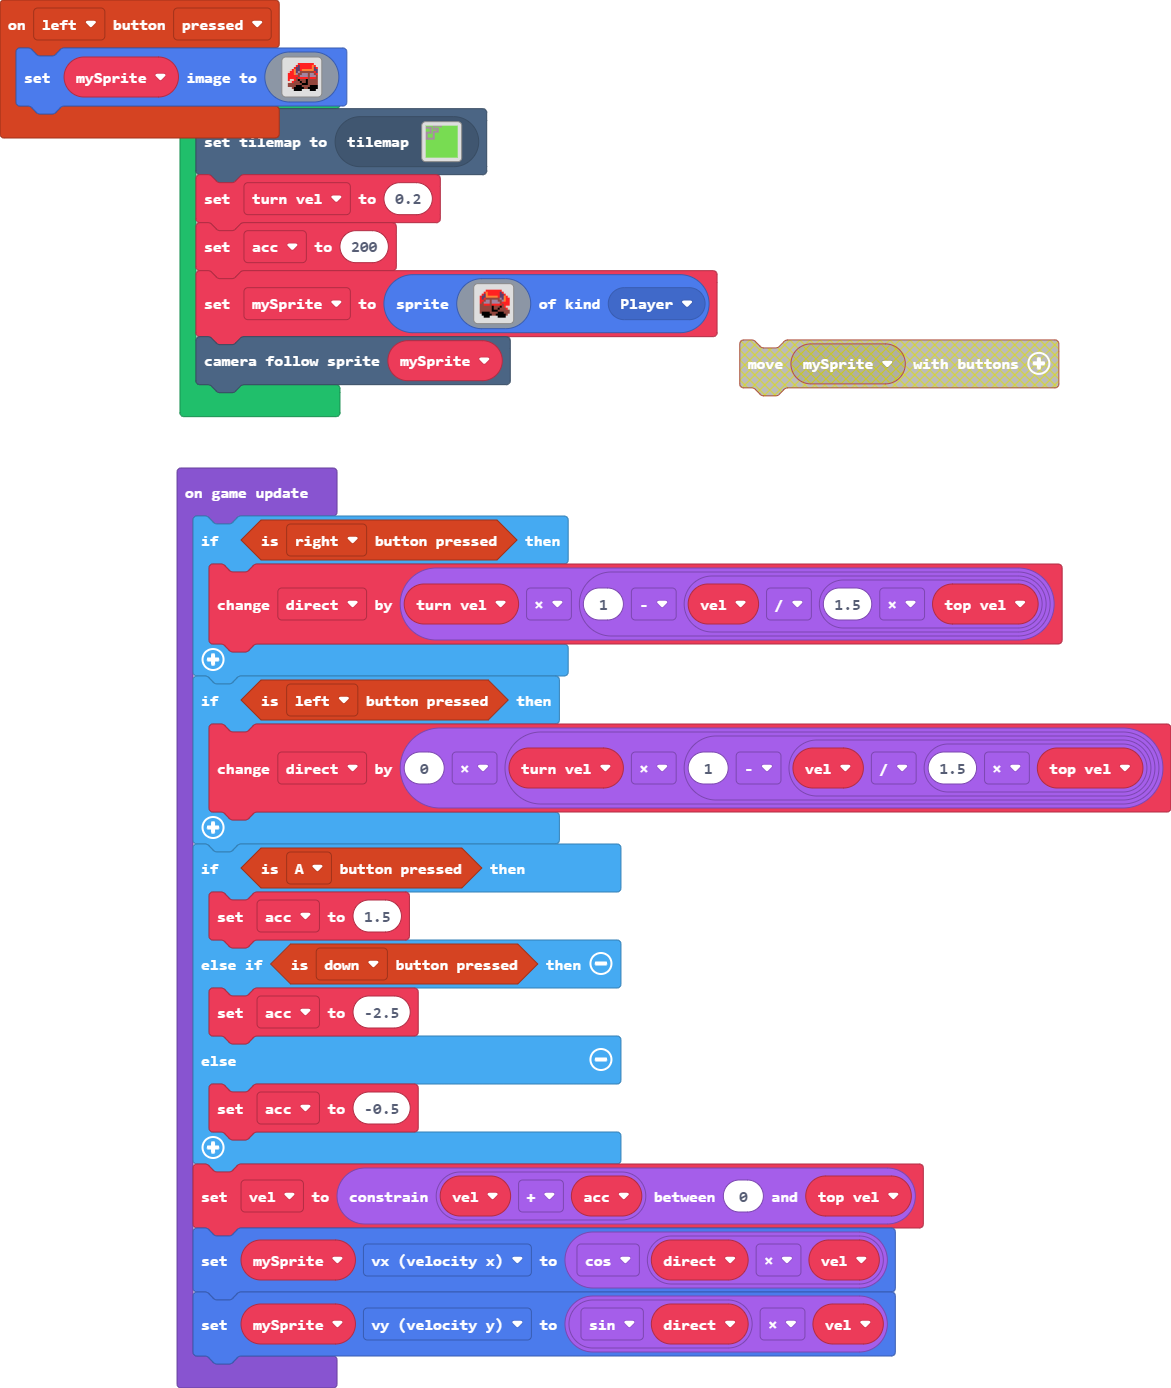
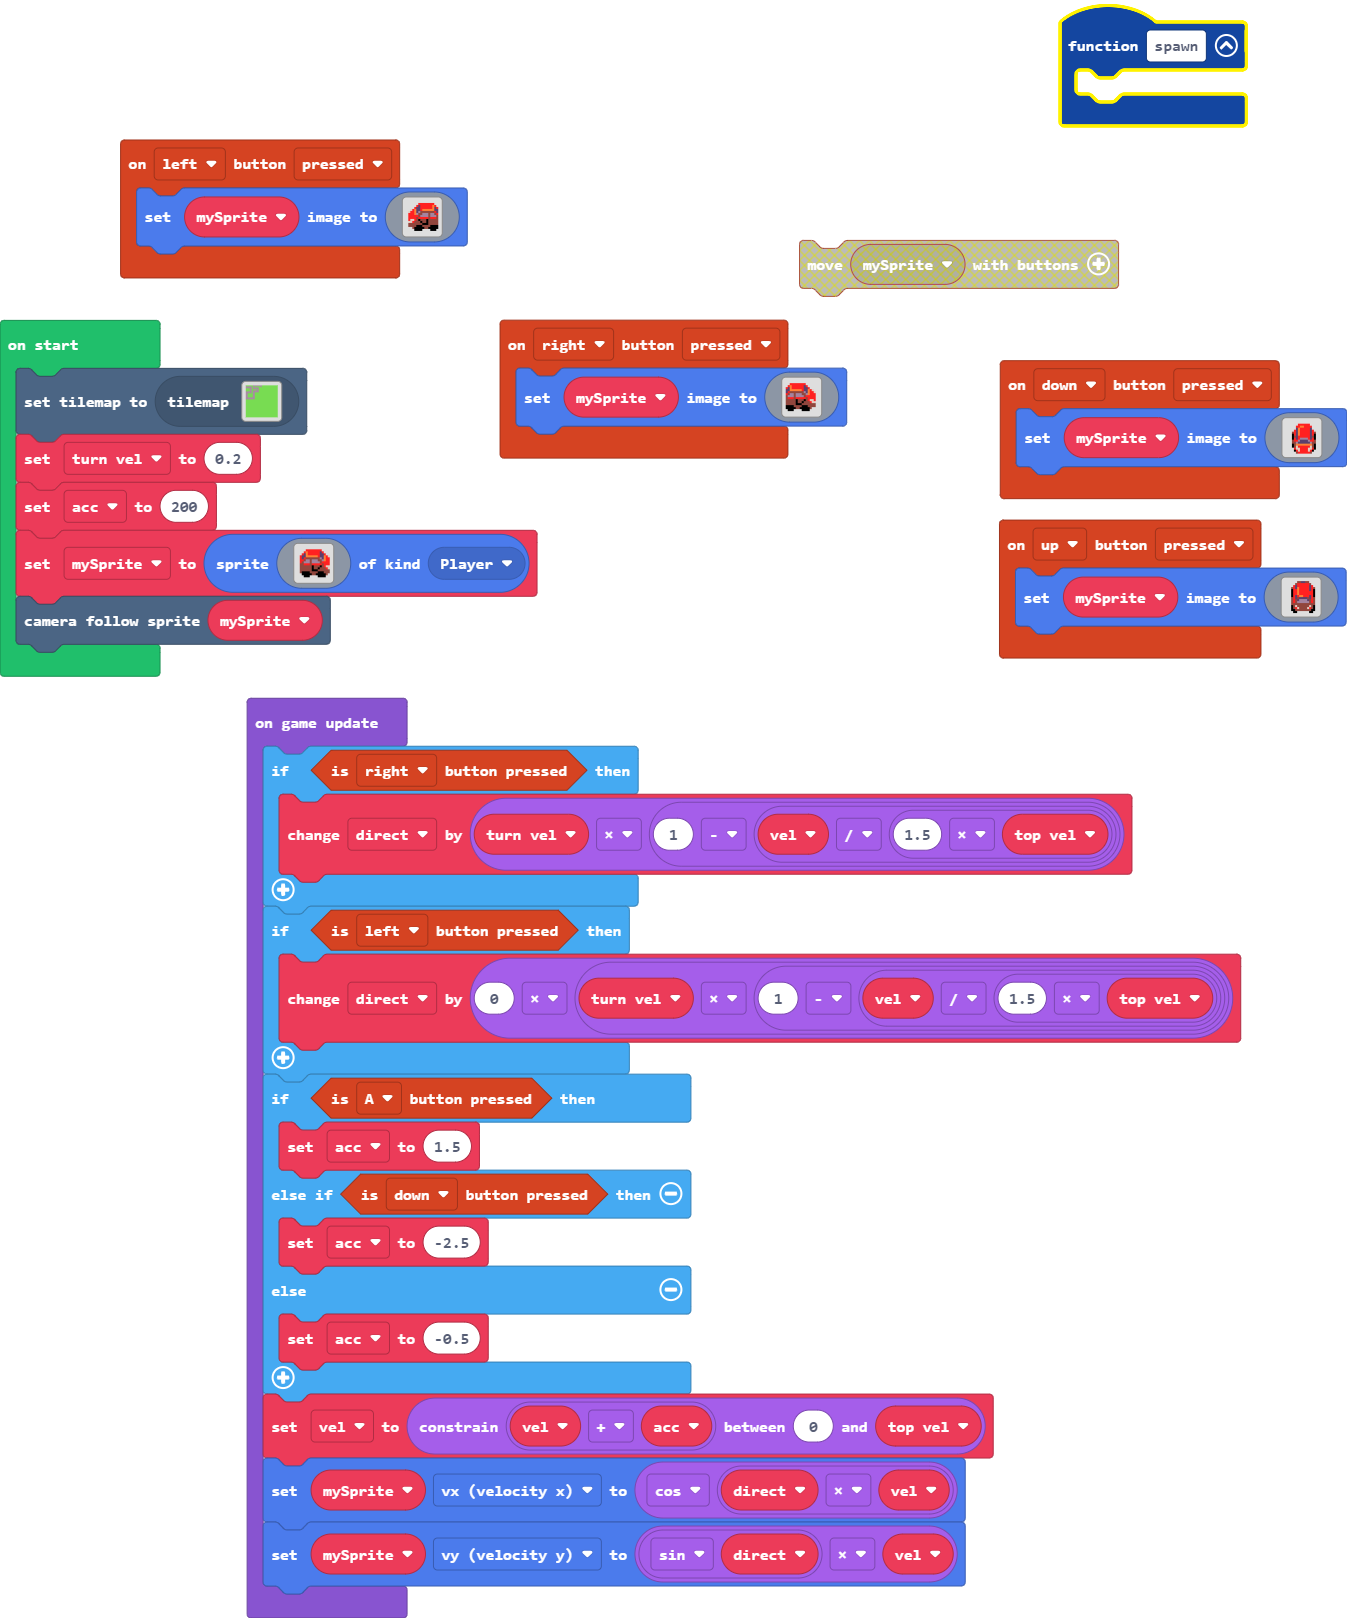
Update main.blocks, main.ts

diff --git a/main.ts b/main.ts
@@ -1,3 +1,23 @@
+controller.up.onEvent(ControllerButtonEvent.Pressed, function () {
+    mySprite.setImage(img`
+        . . . . . . e e c c e e . . . . 
+        . . . . . e 2 2 2 2 2 2 e . . . 
+        . . . . 2 c 2 2 2 2 2 2 c 2 . . 
+        . . . e 2 c 4 2 2 2 2 2 c 2 e . 
+        . . . f 2 2 4 2 2 2 2 2 c 2 f . 
+        . . . f 2 2 4 2 2 2 2 2 2 2 f . 
+        . . . f 2 2 4 2 2 2 2 2 2 2 f . 
+        . . . f 2 c 2 4 4 2 2 2 c 2 f . 
+        . . . e 2 c e c c c c e c 2 e . 
+        . . . e 2 e c b b b b c e 2 e . 
+        . . . e 2 e b b b b b b e 2 e . 
+        . . . e e e e e e e e e e e e . 
+        . . . f e d e e e e e e d e f . 
+        . . . f e 2 d e e e e d 2 e f . 
+        . . . f f e e e e e e e e f f . 
+        . . . . f f . . . . . . f f . . 
+        `)
+})
 controller.left.onEvent(ControllerButtonEvent.Pressed, function () {
     mySprite.setImage(img`
         . . . . . . . . . . . . . . . . 
@@ -18,6 +38,49 @@ controller.left.onEvent(ControllerButtonEvent.Pressed, function () {
         . . . . . . . . . . . . . . . . 
         `)
 })
+controller.right.onEvent(ControllerButtonEvent.Pressed, function () {
+    mySprite.setImage(img`
+        . . . . . . . . . . . . . . . . 
+        . . 2 2 2 2 2 2 2 2 . . . . . . 
+        . 2 4 2 2 2 2 2 2 c 2 . . . . . 
+        2 c 4 2 2 2 2 2 2 c c 2 . . . . 
+        c c 4 4 4 4 4 4 2 c c 4 2 d . . 
+        c 2 e e e e e e e b c 4 2 2 d . 
+        2 e b b e b b b e e b 4 2 2 2 . 
+        e b b b e b b b b e 2 2 2 2 2 . 
+        e 2 2 2 e 2 2 2 2 2 e 2 2 2 2 . 
+        e e e e e f e e e f e 2 d d 2 . 
+        e e e e e f e e f e e e 2 d d . 
+        e e e e e f f f e e e e e e e . 
+        f f f f e e e e f f f e e e e . 
+        f f f f f e e f f f f f e . . . 
+        . f f f . . . . f f f f . . . . 
+        . . . . . . . . . . . . . . . . 
+        `)
+})
+controller.down.onEvent(ControllerButtonEvent.Pressed, function () {
+    mySprite.setImage(img`
+        . . . . . . . . . . . . . . . . 
+        . . . . . . 2 2 2 2 2 2 . . . . 
+        . . . . . 2 2 4 4 2 2 2 2 . . . 
+        . . . . . c 4 2 2 2 2 2 c . . . 
+        . . . . 2 c 4 2 2 2 2 2 c 2 . . 
+        . . . e 2 c 4 2 2 2 2 2 c 2 e . 
+        . . . f 2 c 4 2 2 2 2 2 c 2 f . 
+        . . . f e c 2 2 2 2 2 2 c e f . 
+        . . . f 2 c 2 b b b b 2 c 2 f . 
+        . . . e 2 2 b c c c c b 2 2 e . 
+        . . . e e b c c c c c c b e e . 
+        . . . f e 4 4 4 4 4 4 4 4 e f . 
+        . . . f e d 2 2 2 2 2 2 d e f . 
+        . . . . 2 d d 2 2 2 2 d d 2 f . 
+        . . . . f 2 d 2 2 2 2 d 2 f . . 
+        . . . . . e 2 2 2 2 2 2 e . . . 
+        `)
+})
+function spawn () {
+	
+}
 let vel = 0
 let direct = 0
 let mySprite: Sprite = null
